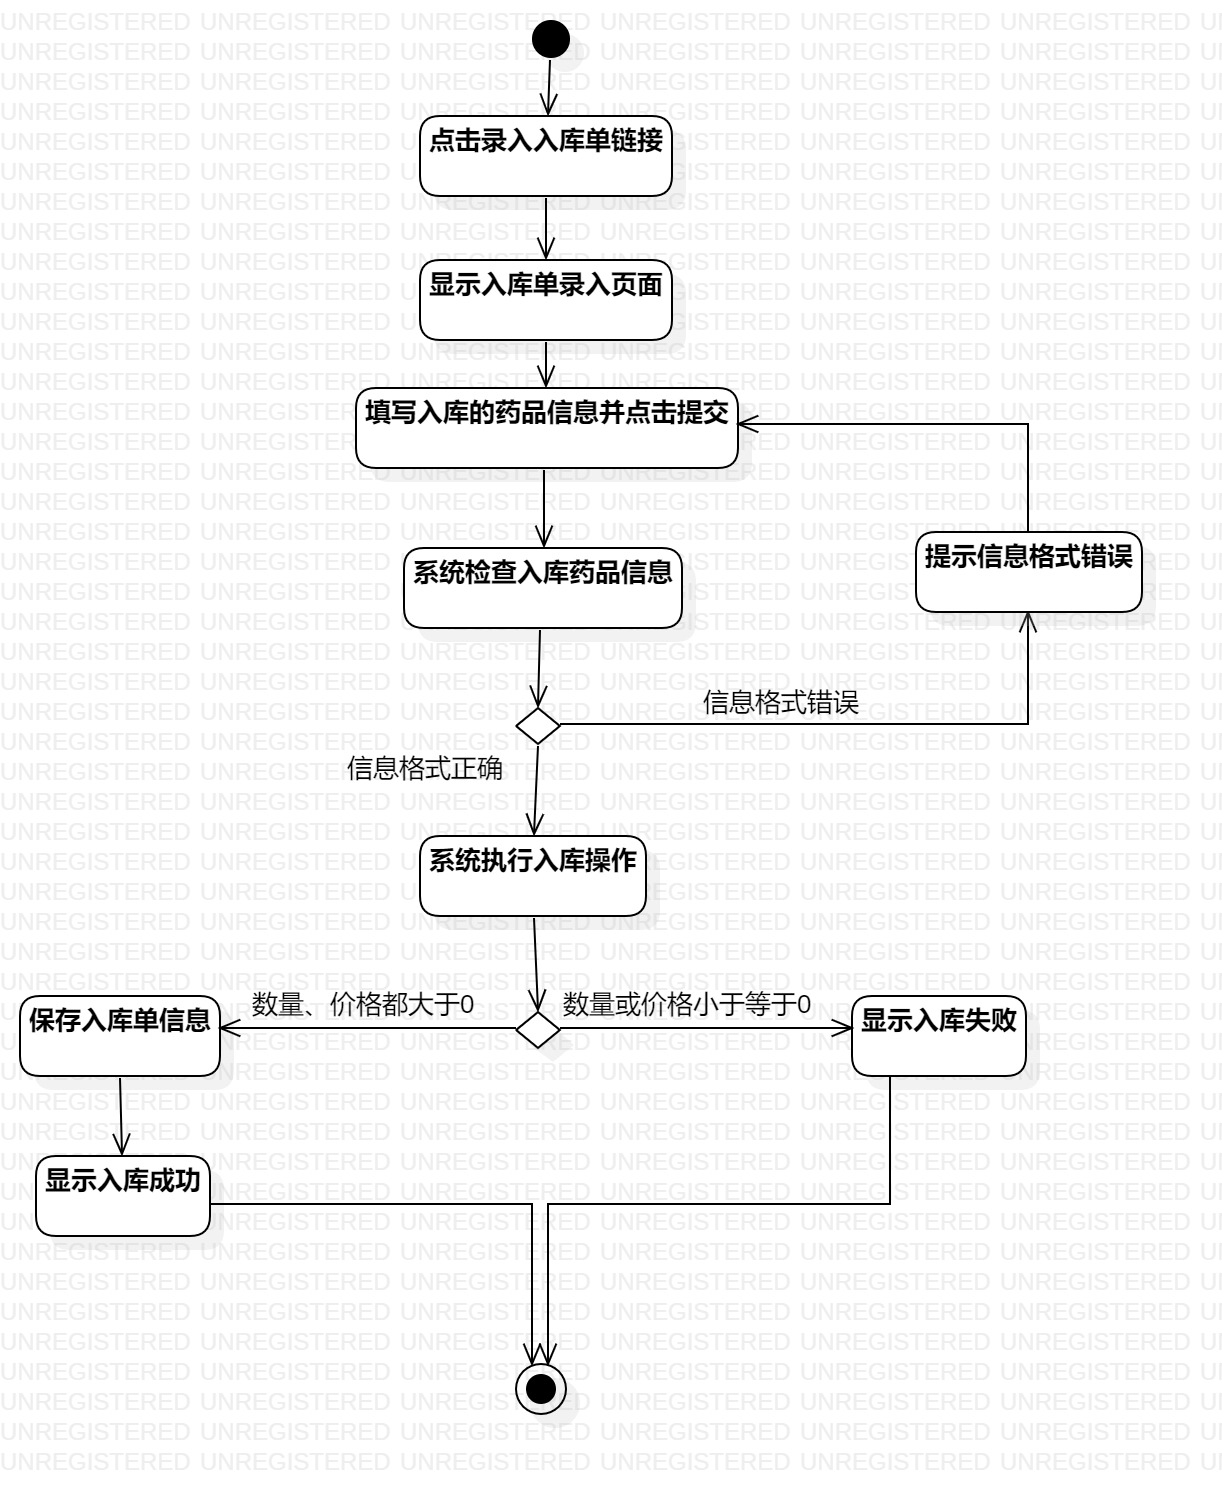
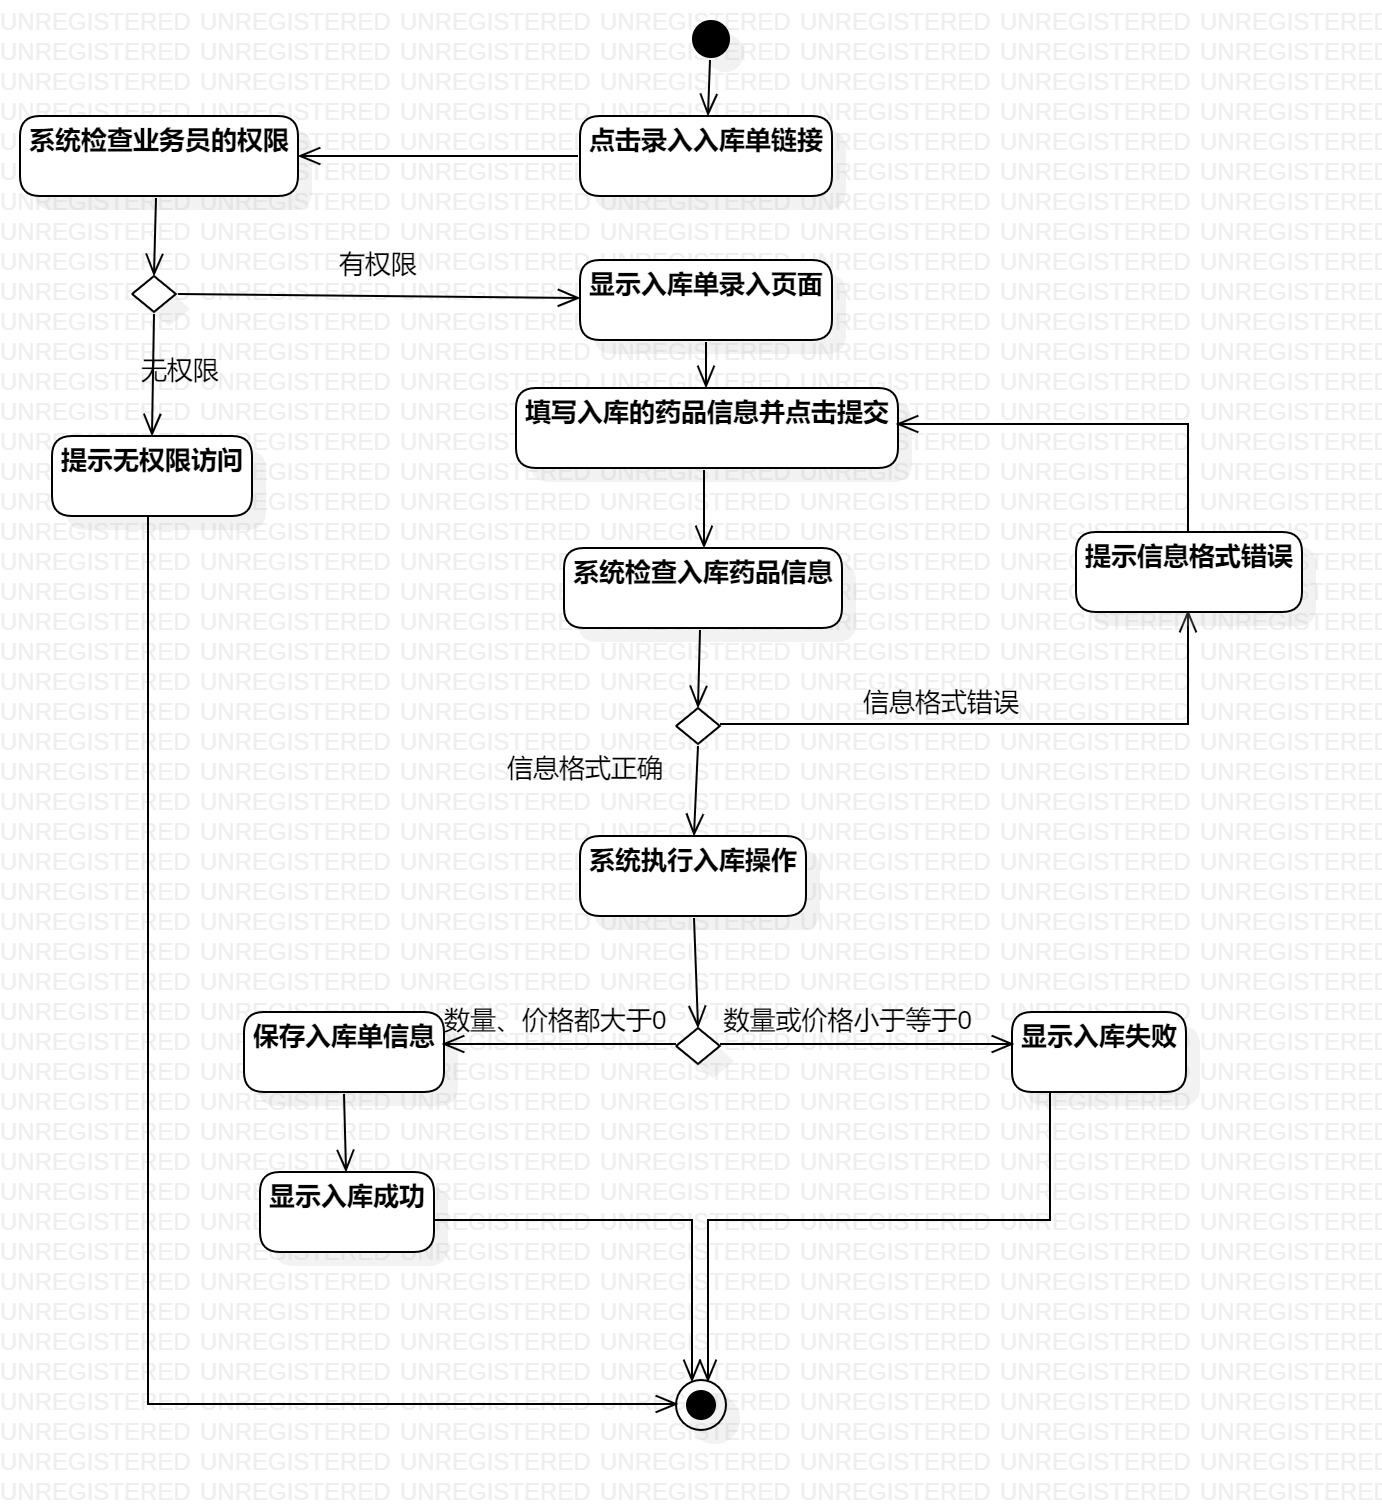
提交实验四并修改实验二和三;

diff --git a/students/1714080902536/lab2.md b/students/1714080902536/lab2.md
@@ -43,8 +43,8 @@
 用例编号  | UC01 | 备注  
 -|:--|-  
 用例名称  | 录入入库单  |   
-前置条件  |  采购员或管理员登录进入医药销售企业进销存管理系统   |
-后置条件  |  采购员或管理员进入入库单填写页面     |   
+前置条件  | 业务员登录进入医药销售企业进销存管理系统 |
+后置条件  |  业务员进入入库单填写页面  |   
 基本流程  | 1. 采购员或管理员点击录入入库单链接；  |*用例执行成功的步骤*    
 ~| 2. 系统显示入库单录入页面；  |   
 ~| 3. 采购员或管理员填写入库的药品信息，点击入库按钮；  |   
@@ -52,7 +52,8 @@
 ~| 5.系统执行入库操作； |  
 ~  | 6.系统保存入库单信息； |                      
 ~ | 7. 系统显示入库成功。 | 
-扩展流程 | 4.1 系统检查发现入库信息格式错误，系统提示信息格式错误 |*用例执行失败* 
+扩展流程 | 2.1 系统检查发现该业务员无权限访问 |*用例执行失败* 
+ | 4.1 系统检查发现入库信息格式错误，系统提示信息格式错误 |*用例执行失败* 
  | 5.1 系统检查发现数量或价格小于等于0，系统显示入库失败 |*用例执行失败* 
 
 ## 表2：录入出库单用例规约  
@@ -60,15 +61,16 @@
 用例编号  | UC02 | 备注  
 -|:-|-  
 用例名称  | 录入出库单  |   
-前置条件  |  销售员或管理员登录进入医药销售企业进销存管理系统   |
+前置条件  |  业务员登录进入医药销售企业进销存管理系统   |
 后置条件  |  销售员或管理员进入出库单填写页面     |  
-基本流程  | 1. 销售员或管理员点击录入出库单链接；  |*用例执行成功的步骤*    
+基本流程  | 1. 业务员点击录入出库单链接；  |*用例执行成功的步骤*    
 ~| 2. 系统显示出库单录入页面；  |   
 ~| 3. 销售员或管理员填写要出库的药品的信息，点击出库按钮；  |   
 ~| 4. 系统检查出库信息格式正确； |   
 ~| 5.系统执行出库操作； |  
 ~  | 6.系统保存出库单信息； |    
 ~ | 7. 系统显示出库成功。 | 
-扩展流程 | 4.1 系统检查发现出库信息格式错误，系统提示信息格式错误 |*用例执行失败* 
+扩展流程 | 2.1 系统检查发现该业务员无权限访问 |*用例执行失败* 
+ | 4.1 系统检查发现出库信息格式错误，系统提示信息格式错误 |*用例执行失败* 
  | 5.1 系统检查发现数量或价格小于等于0，系统显示出库失败 |*用例执行失败* 
  | 5.2 系统检查发现药品不存在，系统显示出库失败 |*用例执行失败* 

diff --git a/students/1714080902536/lab4.md b/students/1714080902536/lab4.md
@@ -1,0 +1,33 @@
+# 实验四五：类建模
+
+## 一、实验目标
+
+1.掌握类建模方法。
+
+2.掌握类图的画法。（Class Diagram）
+
+3.了解MVC设计模式。
+
+## 二、实验内容
+
+1.根据用例规约图中的基本流程和扩展流程设计类。
+
+2.基于MVC设计模式画出类图。
+
+## 三、实验步骤
+
+1.画类图1(Lab3_ClassDiagram1)/类图2(Lab3_ClassDiagram2)。
+
+2.根据用例规约添加多个Class。
+
+3.为每个Class加上name和stereotype。
+
+4.给每个类建立关系。
+
+## 四、实验结果
+
+![实验四类图1](./Lab4_ClassDiagram1.jpg)
+图1:录入入库单类图
+
+![实验四类图2](./Lab4_ClassDiagram2.jpg)
+图2:录入出库单类图
